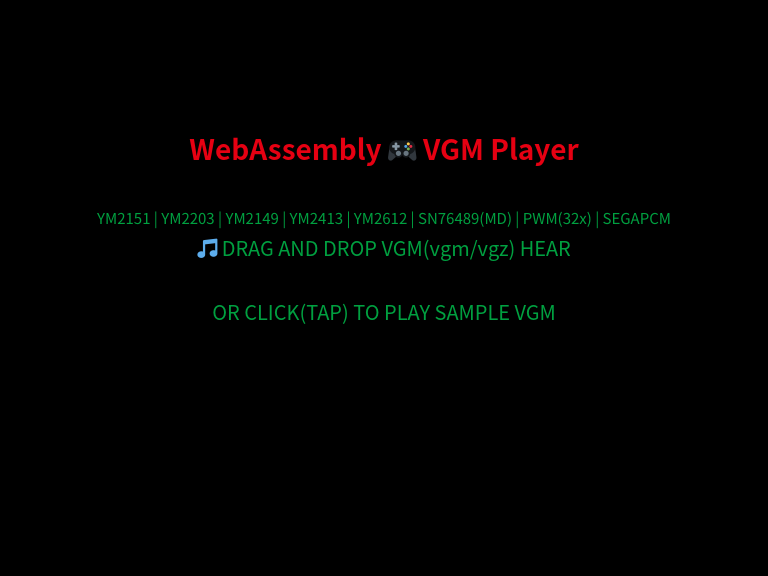
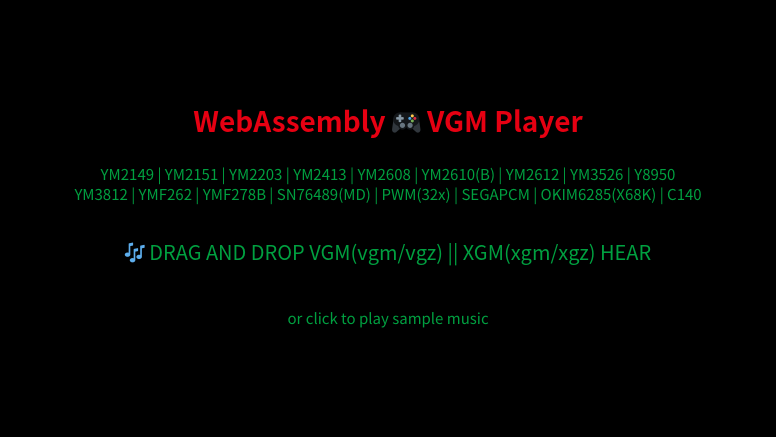
update README and ogp image

diff --git a/examples/web/src/js/main.js b/examples/web/src/js/main.js
@@ -128,7 +128,7 @@ const start = () => {
     canvasContext.fillStyle = COLOR_MD_GREEN;
     canvasContext.font = '15px sans-serif';
     fillTextCenterd("YM2149 | YM2151 | YM2203 | YM2413 | YM2608 | YM2610(B) | YM2612 | YM3526 | Y8950", CANVAS_HEIGHT / 2 - 32 * 4 + 16);
-    fillTextCenterd("YM3812 | YMF262 | YMF278B | SN76489(MD) | PWM(32x) | SEGAPCM | OKIM6285(X68K)", CANVAS_HEIGHT / 2 - 32 * 3 + 4);
+    fillTextCenterd("YM3812 | YMF262 | YMF278B | SN76489(MD) | PWM(32x) | SEGAPCM | OKIM6285(X68K) | C140", CANVAS_HEIGHT / 2 - 32 * 3 + 4);
     canvasContext.font = '20px sans-serif';
     fillTextCenterd("🎶 DRAG AND DROP VGM(vgm/vgz) || XGM(xgm/xgz) HEAR", CANVAS_HEIGHT / 2 - 32 * 1);
     canvasContext.font = '15px sans-serif';

diff --git a/README.md b/README.md
@@ -35,6 +35,7 @@ The WebAssembly interface can be called from many computer languages by using Wa
 |SEGAPCM|MAME|Rust ports|
 |PWM|MAME|Rust ports|
 |OKIM6285|MAME|Rust ports|
+|C140 (exclude C149)|MAME|Rust ports|
 
 ## Web Browser Interface
 
